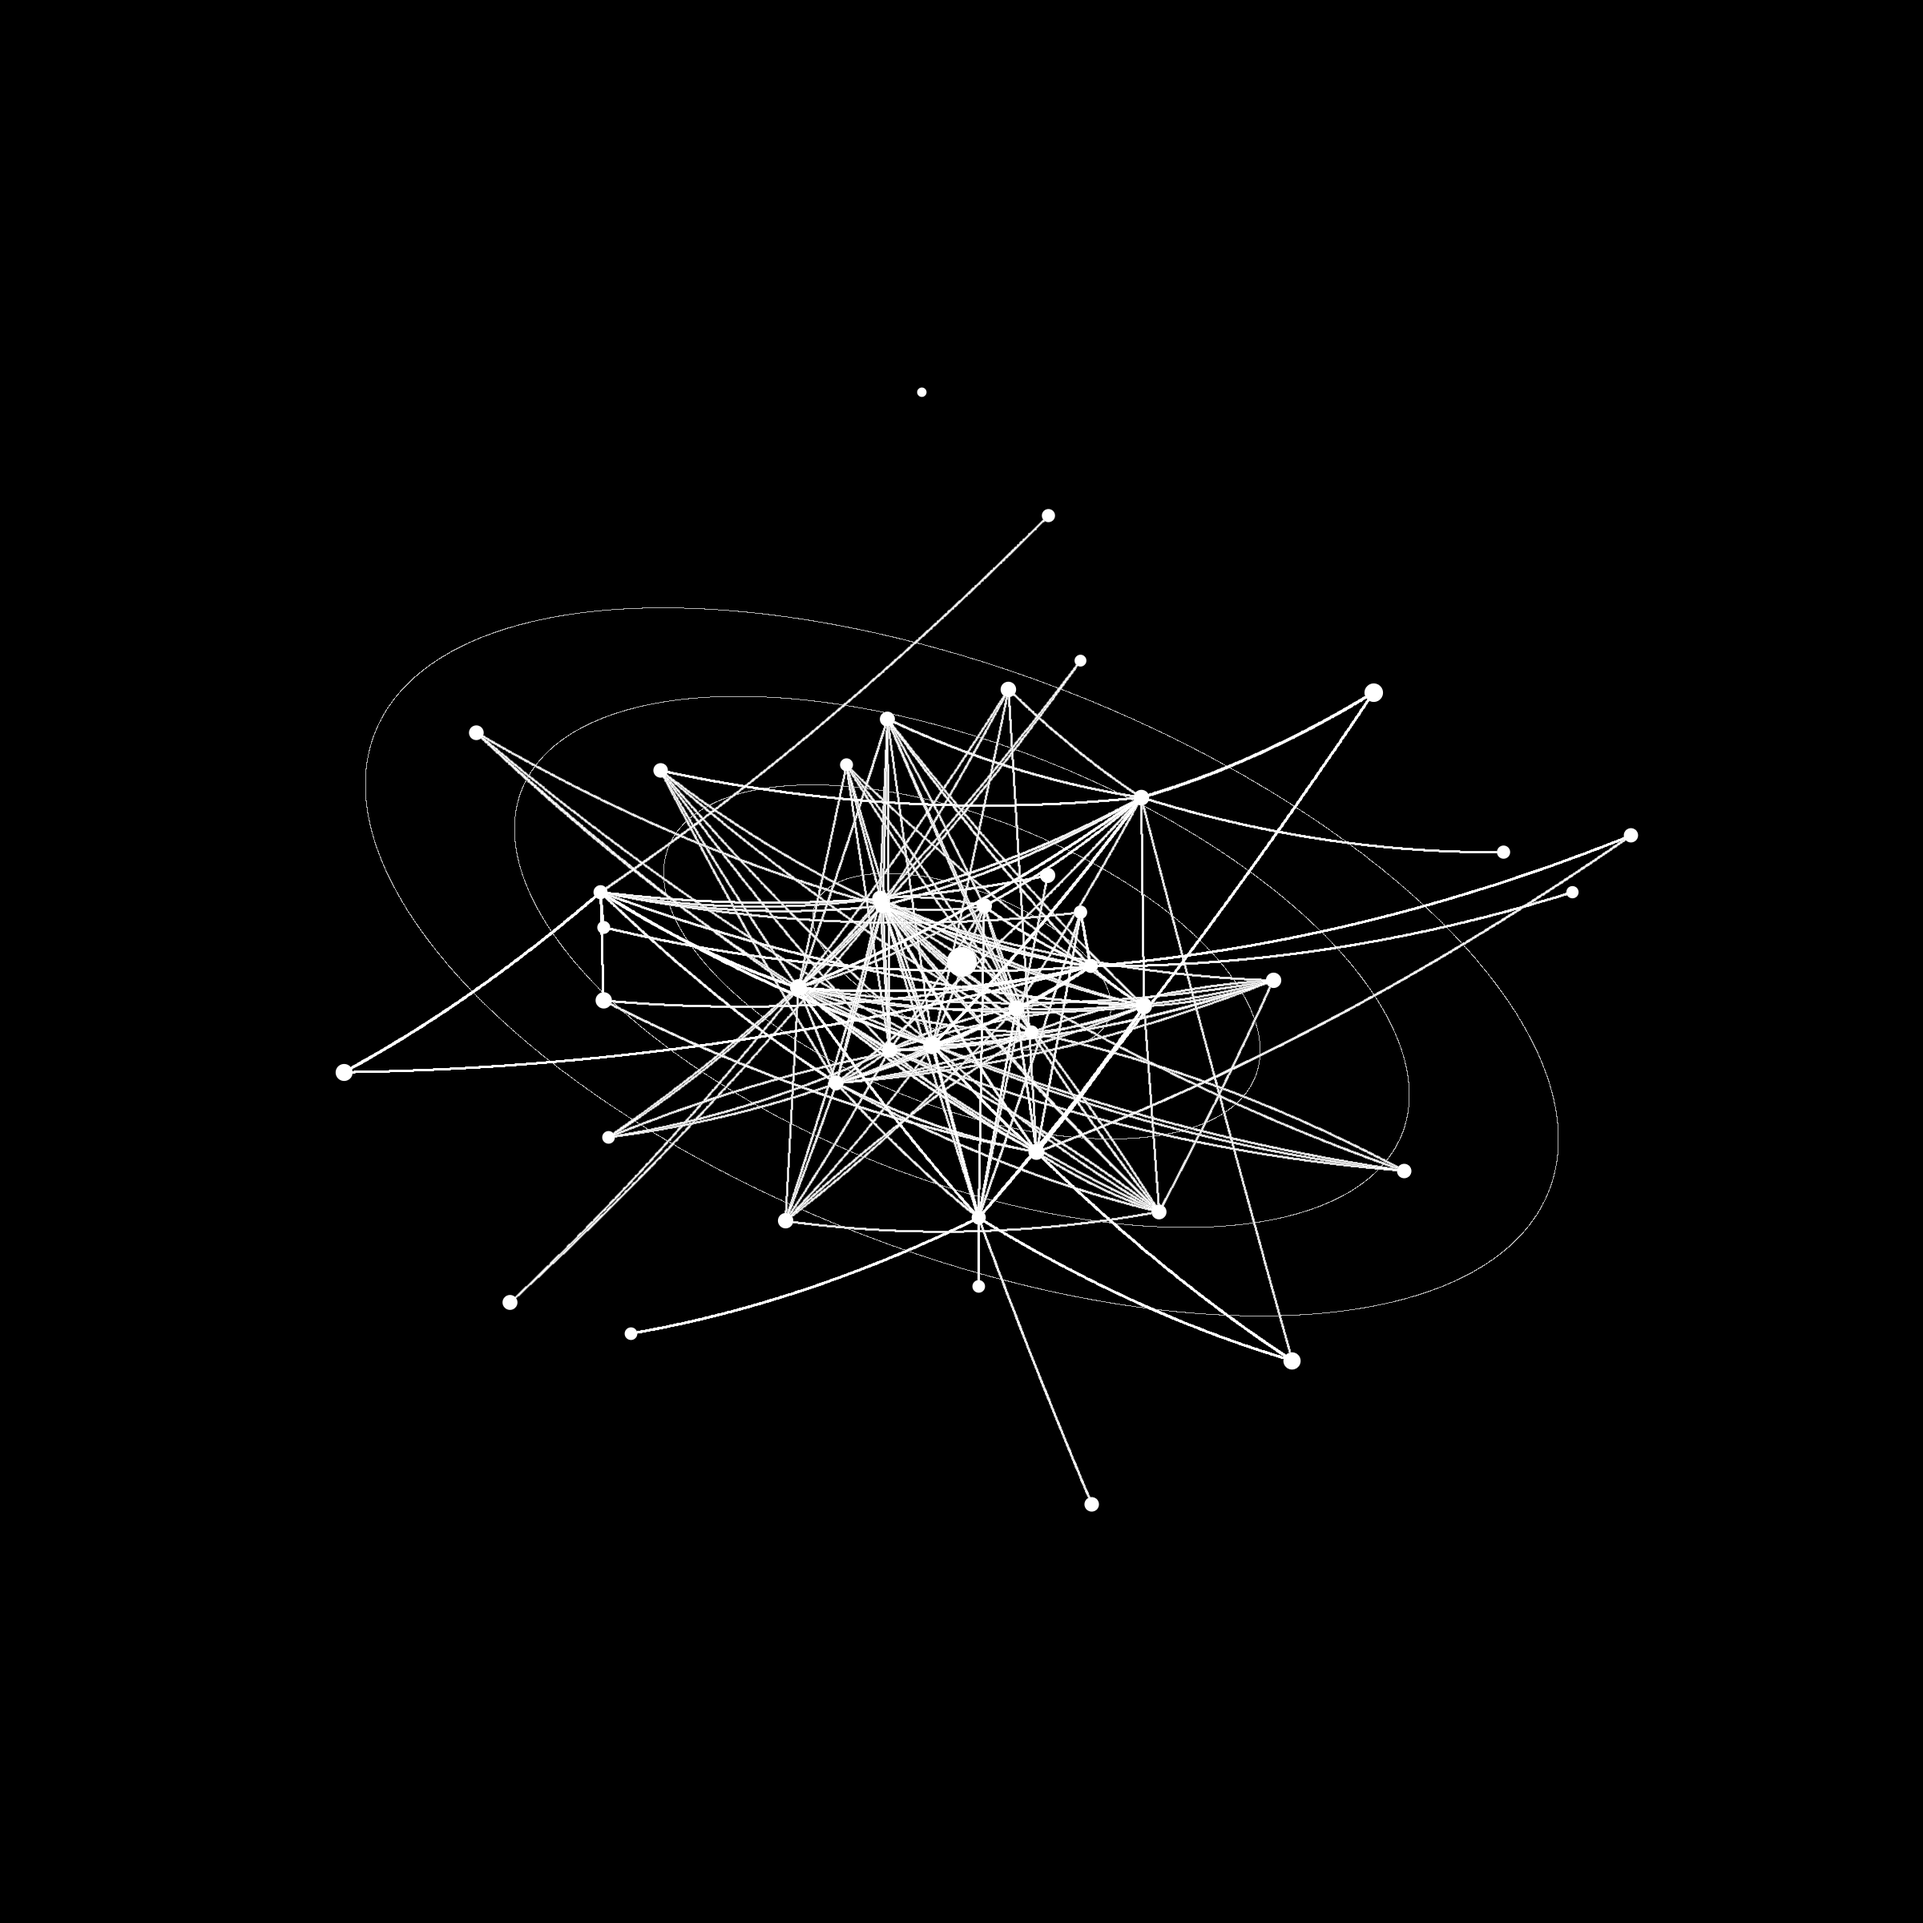
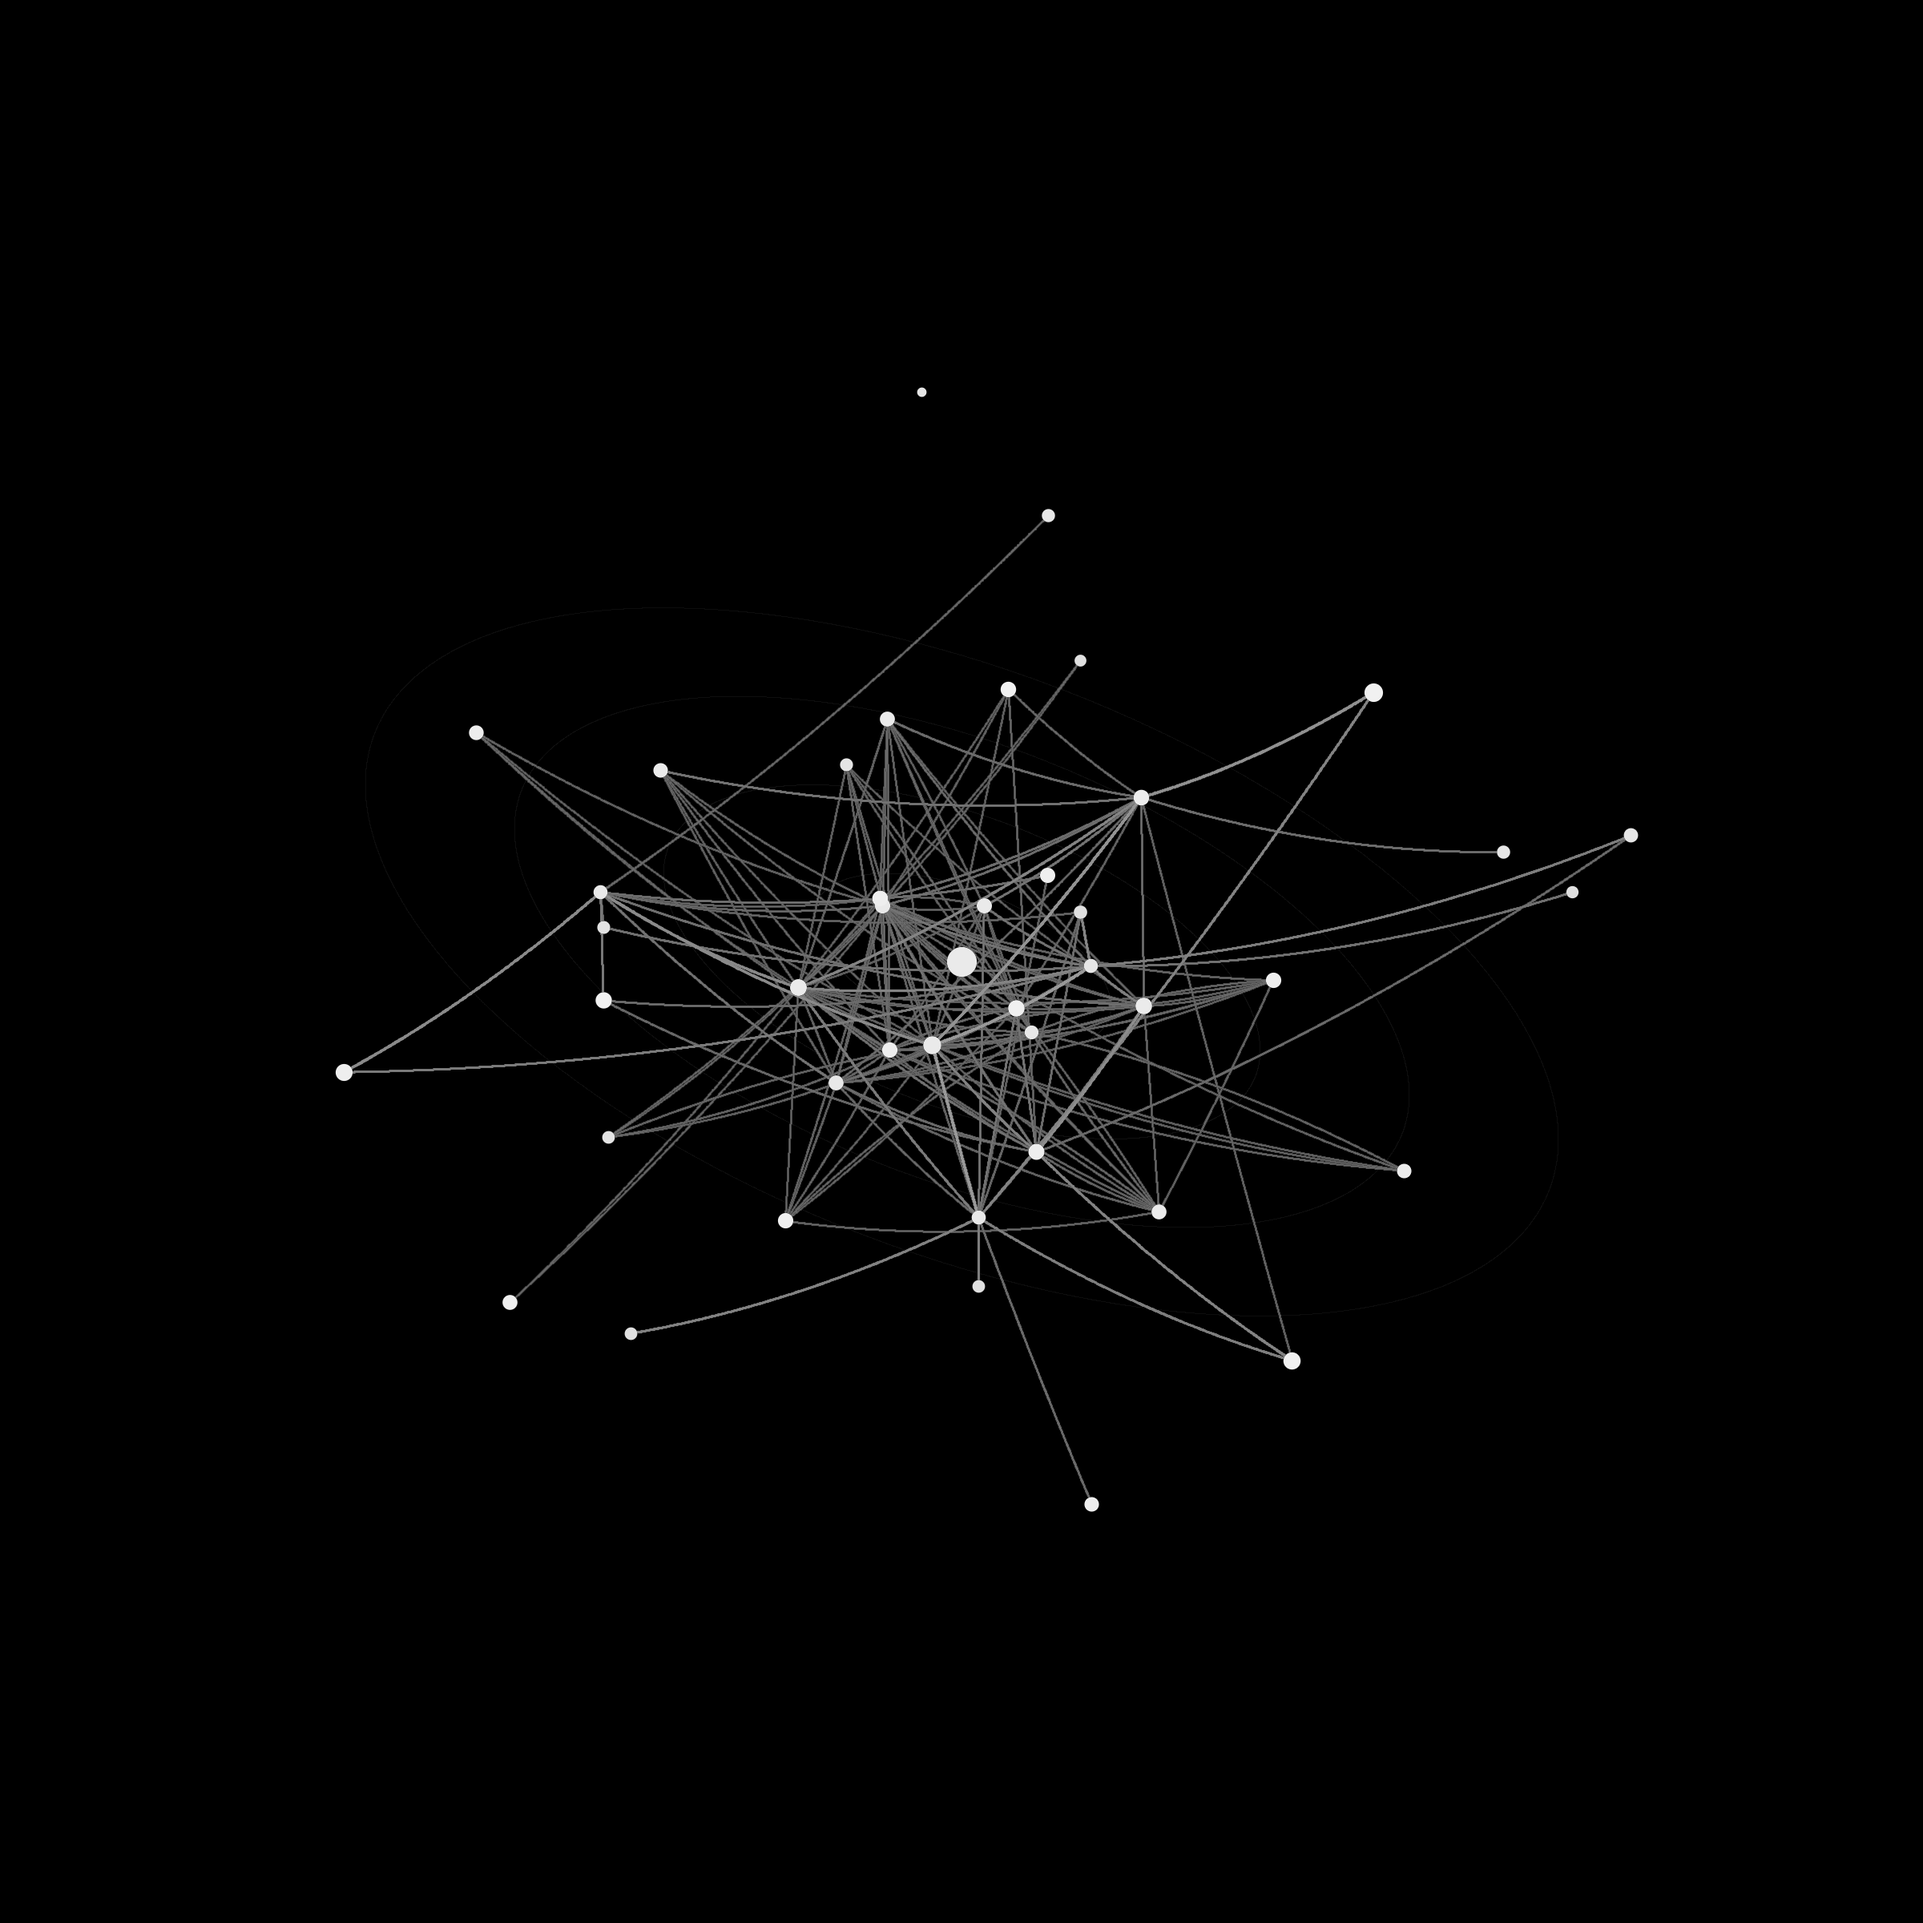
Give Library portraits engraved tonal depth

diff --git a/README.md b/README.md
@@ -73,7 +73,7 @@ of carrying them without doctrinal repetition.
   cross-book relations remain drawn, and each book simultaneously expresses
   gravitational coherence and measured outward pressure.
 - `assets/library-first-frames/` holds one canonical 2400×2400 PNG portrait for
-  every coherent Library selection. Each is the work's naked, solid-white
+  every coherent Library selection. Each is the work's naked, engraved-grayscale
   weighted topology on pure black at its initial orientation; the adjacent manifest binds the image to its
   Library order, current edition, renderer, dimensions, and SHA-256.
 - `scripts/works.mjs` ingests a Markdown file or directory in natural order,
@@ -674,7 +674,7 @@ reading. The source remains behind the private-source membrane. The public
 edition retains its pinned witness and content digest, 66 attributable book
 structures, 1,189 chapter passages, 789,649 transiently read words, 36 derived
 concepts, 180 relations, a 103-node topology, an 84-event FoldForge-inherited
-score, immutable lineage, and a canonical solid-white first-frame portrait.
+score, immutable lineage, and a canonical engraved-grayscale first-frame portrait.
 
 The Whole Canon object establishes the governing geometry for multi-work
 fields: **coherence is gravity, living works are antigravity, and their

diff --git a/works/README.md b/works/README.md
@@ -34,8 +34,9 @@ Each ingestion writes:
 - `assets/library-first-frames/NN-work-id.png`: a canonical 2400×2400
   first-frame portrait of the current topology.
 
-The portrait contains the work alone: black field with solid-white weighted
-relations and nodes at the Living Library model's initial orientation. It carries no
+The portrait contains the work alone: a pure-black field with luminous
+grayscale nodes, weight-sensitive relations, and restrained structural depth
+at the Living Library model's initial orientation. It carries no
 interface, title, or source prose. `assets/library-first-frames/manifest.json`
 witnesses its Library order, work and edition identity, dimensions, renderer,
 path, and SHA-256. Filenames remain stable while a later edition replaces the
